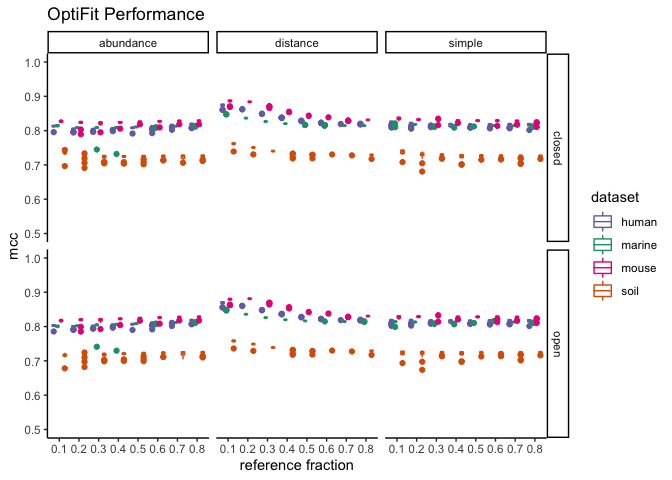
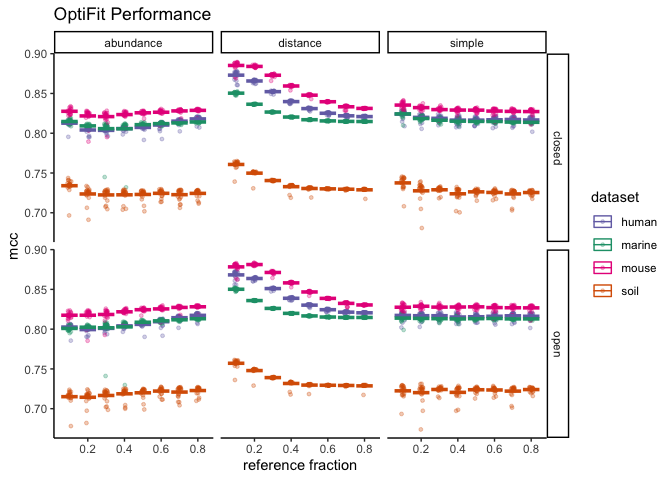
Use stat_summary

diff --git a/exploratory/2020/sub3_fit_subsets.md b/exploratory/2020/sub3_fit_subsets.md
@@ -27,10 +27,10 @@ sensspec_fit <-
 
 ``` r
 sensspec_fit %>%
-  ggplot(aes(x = as.factor(ref_frac), y = mcc, color = dataset)) +
-  geom_boxplot() +
+  ggplot(aes(x = ref_frac, y = mcc, color = dataset)) +
+  geom_jitter(size = 1, alpha = 0.3, width = 0.01) +
+  stat_summary(fun = mean, geom = 'crossbar') +
   scale_color_manual(values = dataset_colors) +
-  ylim(0.5, 1) +
   facet_grid(method ~ ref_weight) +
   labs(title='OptiFit Performance',
        x='reference fraction')
@@ -50,6 +50,7 @@ runtime <- full_join(
   full_join(read_tsv(here('subworkflows/3_fit_sample_subset/results/gap_counts.tsv'))) %>% 
   mutate(num_total_seqs = num_ref_seqs + num_sample_seqs,
          gaps_frac = n_gaps / total_chars)
+
 runtime %>% ggplot(aes(x=num_ref_seqs, y=s, color=dataset)) +
   geom_point(alpha = 0.3) +
   facet_grid(method ~ ref_weight) +
